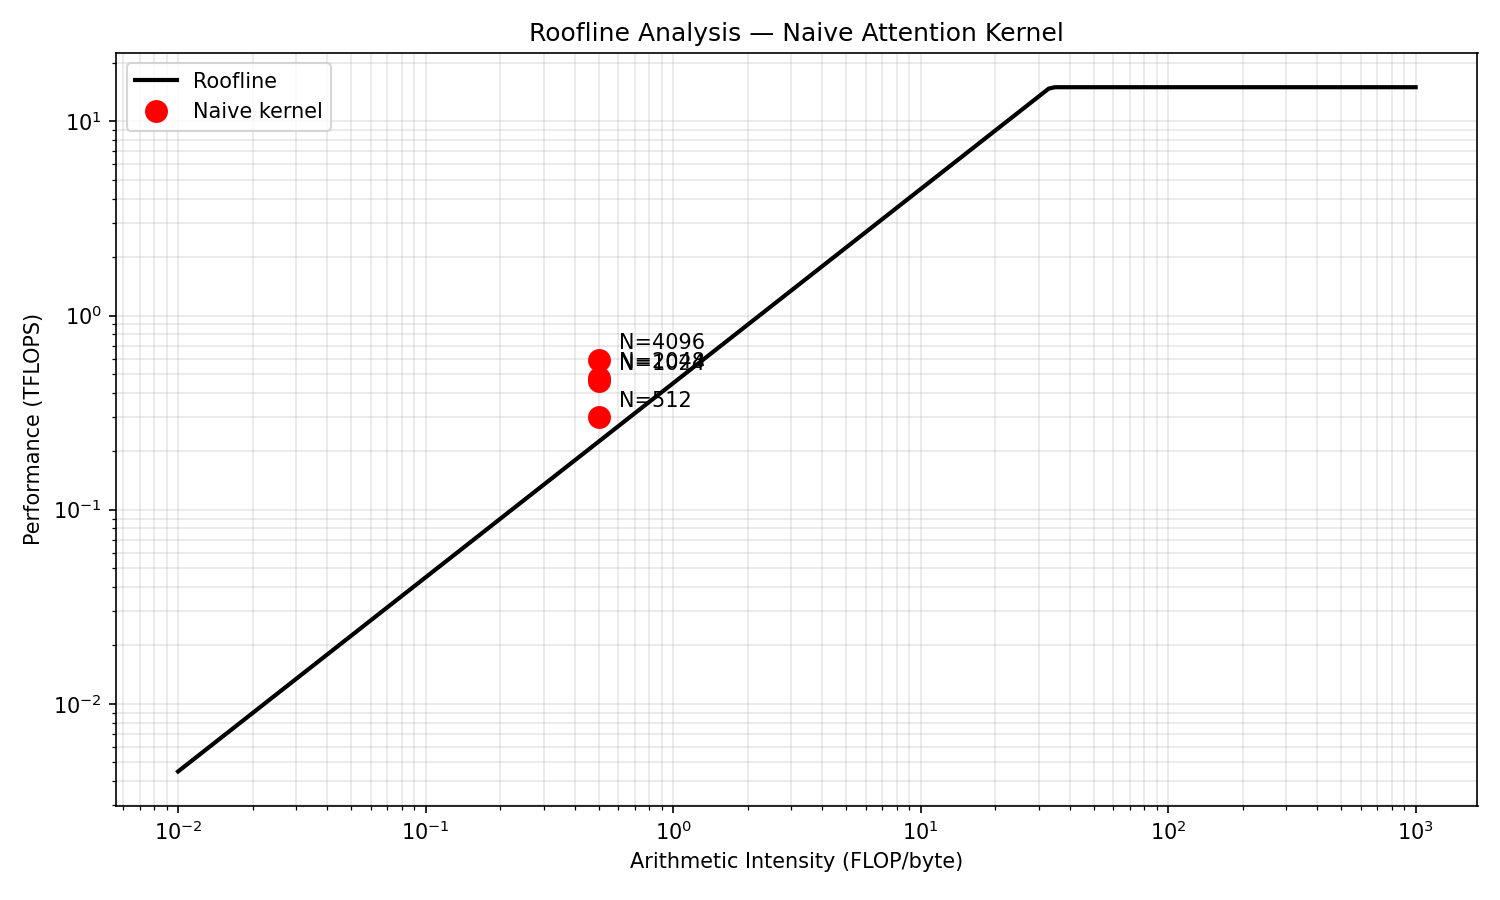
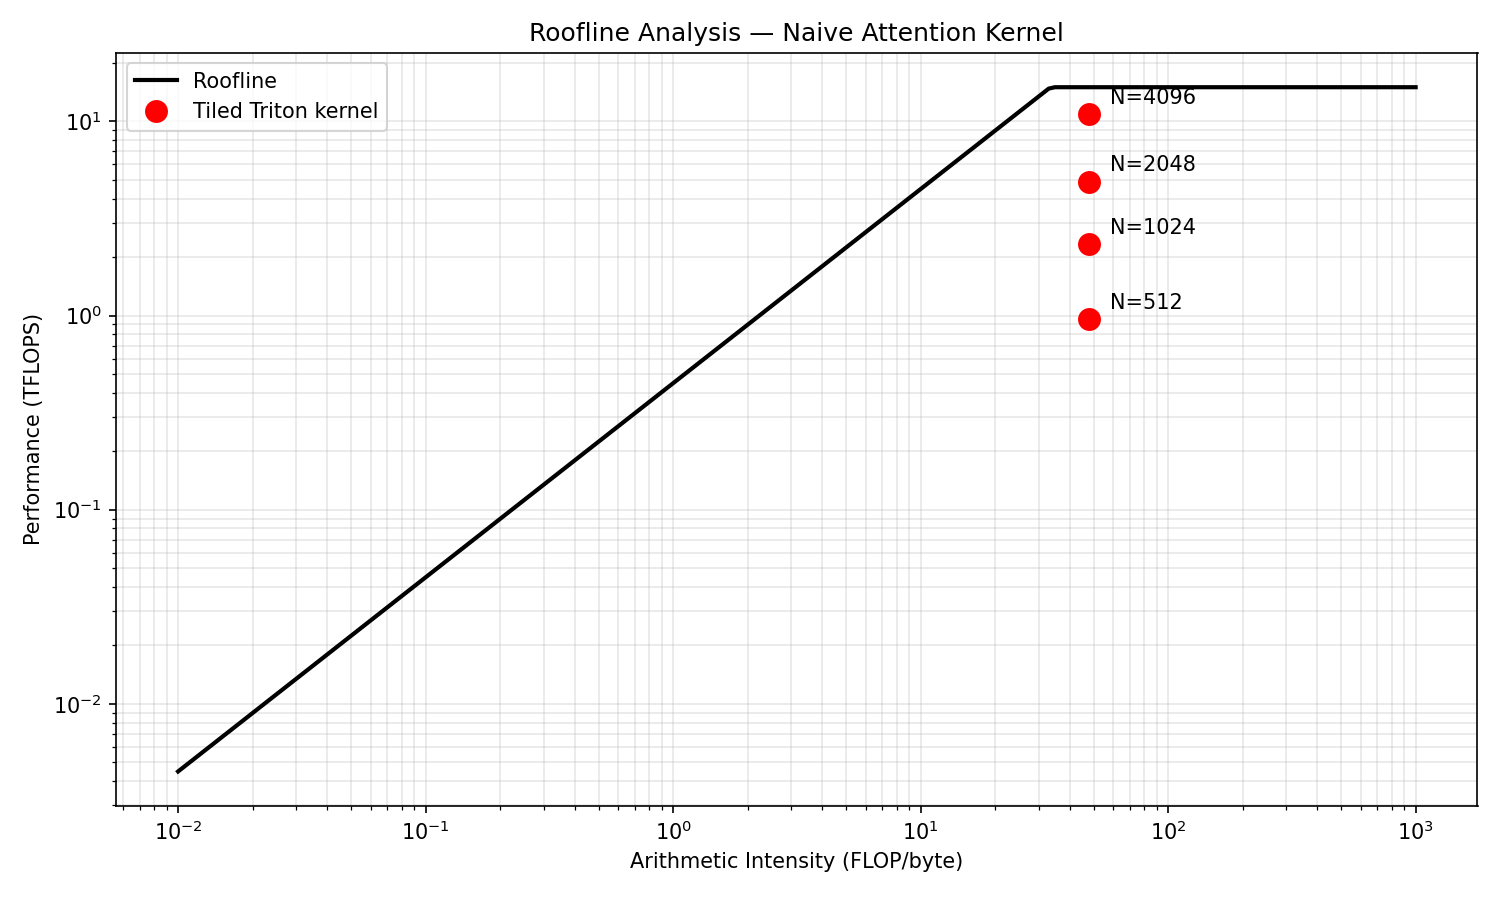
Phase 4: add tiled and joint roofline benchmarks

diff --git a/src/benchmark_joint.py b/src/benchmark_joint.py
@@ -1,0 +1,143 @@
+"""
+Joint roofline benchmark: naive vs tiled Triton attention kernels.
+
+Plots both kernels on the same roofline so the optimization win is visible:
+naive sits in the memory-bound region (AI ~0.5) while tiled jumps to the
+compute-bound region (AI ~48 for BLOCK_M=64).
+"""
+import numpy as np
+import torch
+import matplotlib.pyplot as plt
+
+from triton_native import naive_attention
+from triton_tiled import tiled_attention
+
+# ======= Hardware specs (RTX 5060 Laptop) =======
+PEAK_BW_GB_S = 448
+PEAK_TFLOPS_FP32 = 15
+
+# ======= Test parameters =======
+SEQ_LENS = [512, 1024, 2048, 4096]
+D_K = 64
+BLOCK_M_TILED = 64
+WARMUP = 10
+ITERS = 100
+
+
+# ---------- Theoretical models ----------
+def compute_flops(N, d_k):
+    # Same for both kernels: 6 * N^2 * d_k
+    return 6 * N * N * d_k
+
+
+def compute_bytes_naive(N, d_k):
+    # Naive: 12 * N^2 * d_k  (K loaded twice + V loaded once per query row)
+    return 12 * N * N * d_k
+
+
+def compute_bytes_tiled(N, d_k, BLOCK_M):
+    # Tiled: 8 * N^2 * d_k / BLOCK_M  (K + V loaded once per program; N/BLOCK_M programs)
+    return 8 * N * N * d_k / BLOCK_M
+
+
+# ---------- Benchmark helper ----------
+def benchmark(kernel_fn, N, d_k, label):
+    Q = torch.randn(N, d_k, device='cuda', dtype=torch.float32)
+    K = torch.randn(N, d_k, device='cuda', dtype=torch.float32)
+    V = torch.randn(N, d_k, device='cuda', dtype=torch.float32)
+
+    for _ in range(WARMUP):
+        kernel_fn(Q, K, V)
+
+    times = []
+    for _ in range(ITERS):
+        start = torch.cuda.Event(enable_timing=True)
+        end = torch.cuda.Event(enable_timing=True)
+        start.record()
+        kernel_fn(Q, K, V)
+        end.record()
+        end.synchronize()
+        times.append(start.elapsed_time(end))
+
+    median_ms = sorted(times)[ITERS // 2]
+    return median_ms
+
+
+# ---------- Run both kernels ----------
+naive_results = []
+tiled_results = []
+
+print(f"{'N':>6} | {'kernel':>6} | {'ms':>9} | {'TFLOPS':>7} | {'GB/s':>7} | {'AI':>6}")
+print("-" * 60)
+
+for N in SEQ_LENS:
+    # Naive
+    ms = benchmark(naive_attention, N, D_K, 'naive')
+    s = ms / 1000.0
+    flops = compute_flops(N, D_K)
+    bytes_ = compute_bytes_naive(N, D_K)
+    naive_results.append({
+        'N': N, 'ms': ms,
+        'tflops': flops / s / 1e12,
+        'bw': bytes_ / s / 1e9,
+        'ai': flops / bytes_,
+    })
+    r = naive_results[-1]
+    print(f"{N:>6} | {'naive':>6} | {ms:>9.3f} | {r['tflops']:>7.3f} | "
+          f"{r['bw']:>7.1f} | {r['ai']:>6.2f}")
+
+    # Tiled
+    ms = benchmark(tiled_attention, N, D_K, 'tiled')
+    s = ms / 1000.0
+    bytes_ = compute_bytes_tiled(N, D_K, BLOCK_M_TILED)
+    tiled_results.append({
+        'N': N, 'ms': ms,
+        'tflops': flops / s / 1e12,
+        'bw': bytes_ / s / 1e9,
+        'ai': flops / bytes_,
+    })
+    r = tiled_results[-1]
+    print(f"{N:>6} | {'tiled':>6} | {ms:>9.3f} | {r['tflops']:>7.3f} | "
+          f"{r['bw']:>7.1f} | {r['ai']:>6.2f}")
+
+# ---------- Joint roofline plot ----------
+fig, ax = plt.subplots(figsize=(11, 6.5))
+
+ai_range = np.logspace(-2, 3, 200)
+mem_ceiling = PEAK_BW_GB_S * ai_range / 1e3
+compute_ceiling = np.full_like(ai_range, PEAK_TFLOPS_FP32)
+roofline = np.minimum(mem_ceiling, compute_ceiling)
+
+ax.loglog(ai_range, roofline, 'k-', linewidth=2, label='Roofline (RTX 5060 Laptop)')
+
+# Ridge point
+ridge = PEAK_TFLOPS_FP32 * 1e3 / PEAK_BW_GB_S
+ax.axvline(ridge, color='gray', linestyle='--', alpha=0.5,
+           label=f'Ridge point ≈ {ridge:.1f} FLOP/byte')
+
+# Naive points
+ais = [r['ai'] for r in naive_results]
+tflops = [r['tflops'] for r in naive_results]
+ax.loglog(ais, tflops, 'ro', markersize=10, label='Naive Triton kernel')
+for r in naive_results:
+    ax.annotate(f"N={r['N']}", (r['ai'], r['tflops']),
+                textcoords="offset points", xytext=(8, -12), fontsize=9, color='red')
+
+# Tiled points
+ais = [r['ai'] for r in tiled_results]
+tflops = [r['tflops'] for r in tiled_results]
+ax.loglog(ais, tflops, 'b^', markersize=10, label=f'Tiled Triton kernel (BLOCK_M={BLOCK_M_TILED})')
+for r in tiled_results:
+    ax.annotate(f"N={r['N']}", (r['ai'], r['tflops']),
+                textcoords="offset points", xytext=(8, 5), fontsize=9, color='blue')
+
+ax.set_xlabel('Arithmetic Intensity (FLOP/byte)')
+ax.set_ylabel('Performance (TFLOPS)')
+ax.set_title('Roofline: Naive vs Tiled FlashAttention (Triton, RTX 5060 Laptop)')
+ax.legend(loc='lower right')
+ax.grid(True, which='both', alpha=0.3)
+plt.tight_layout()
+
+out_path = '../roofline_comparison.png'
+plt.savefig(out_path, dpi=150)
+print(f"\nSaved {out_path}")

diff --git a/src/benchmark_tiled.py b/src/benchmark_tiled.py
@@ -1,0 +1,121 @@
+import torch
+import matplotlib.pyplot as plt
+from triton_tiled import tiled_attention
+
+# ======= Hardware specs (RTX 5060 Laptop) =======
+PEAK_BW_GB_S = 448        # GB/s memory bandwidth
+PEAK_TFLOPS_FP32 = 15     # TFLOPS FP32
+
+# ======= Test parameters =======
+SEQ_LENS = [512, 1024, 2048, 4096]
+D_K = 64
+WARMUP = 10
+ITERS = 100
+
+# ======= FILL IN: Theoretical model =======
+def compute_flops(N, d_k):
+    """Total FLOPs for the full kernel (all N query rows)."""
+    # BLANK 1: You derived FLOPs per query row = 6 * N * d_k
+    # There are N query rows, so total = ???
+    return 6*N*d_k*N
+
+def compute_bytes(N, d_k, BLOCK_M):
+    """Total bytes moved from global memory (all N query rows)."""
+    # BLANK 2: You derived bytes per query row = 12 * N * d_k
+    # Total = ???
+    return (8*(N**2)*d_k) / BLOCK_M
+
+# ======= Benchmark loop =======
+results = []
+
+for N in SEQ_LENS:
+    Q = torch.randn(N, D_K, device='cuda', dtype=torch.float32)
+    K = torch.randn(N, D_K, device='cuda', dtype=torch.float32)
+    V = torch.randn(N, D_K, device='cuda', dtype=torch.float32)
+
+    # Warmup
+    for _ in range(WARMUP):
+        tiled_attention(Q, K, V)
+
+    # FILL IN: Timed iterations using CUDA events
+    times = []
+    for _ in range(ITERS):
+        # BLANK 3: Create start and end events
+        start = torch.cuda.Event(enable_timing=True)
+        end = torch.cuda.Event(enable_timing=True)
+
+        # BLANK 4: Record start, run kernel, record end, synchronize
+        start.record()
+        tiled_attention(Q, K, V)
+        end.record()
+        
+        end.synchronize() #CPU blocks until GPU hits 'end'
+        # BLANK 5: Get elapsed time (events give milliseconds)
+        elapsed_ms = start.elapsed_time(end)
+        times.append(elapsed_ms)
+
+    median_ms = sorted(times)[ITERS // 2]
+    median_s = median_ms / 1000.0
+
+    BLOCK_M = 64  # Must match the BLOCK_M used in tiled_attention_kernel
+
+    flops = compute_flops(N, D_K)
+    total_bytes = compute_bytes(N, D_K, BLOCK_M)
+
+    achieved_tflops = flops / median_s / 1e12
+    achieved_bw = total_bytes / median_s / 1e9  # GB/s
+    arith_intensity = flops / total_bytes        # FLOP/byte
+
+    results.append({
+        'N': N,
+        'median_ms': median_ms,
+        'achieved_tflops': achieved_tflops,
+        'achieved_bw': achieved_bw,
+        'arith_intensity': arith_intensity,
+    })
+
+    print(f"N={N:5d} | {median_ms:8.3f} ms | {achieved_tflops:.4f} TFLOPS | "
+          f"{achieved_bw:.1f} GB/s | AI={arith_intensity:.2f} FLOP/byte")
+
+# ======= FILL IN: Roofline Plot =======
+fig, ax = plt.subplots(figsize=(10, 6))
+
+# BLANK 6: Create the roofline ceiling lines
+# X-axis range for arithmetic intensity
+import numpy as np
+ai_range = np.logspace(-2, 3, 200)
+
+# Memory ceiling: performance = bandwidth * arithmetic_intensity
+# (convert GB/s to TFLOPS: 448 GB/s = 0.448 TB/s)
+mem_ceiling = PEAK_BW_GB_S * ai_range / 1e3  # array: PEAK_BW * ai_range, in TFLOPS
+
+# Compute ceiling: flat line at peak TFLOPS
+compute_ceiling = np.full_like(ai_range, PEAK_TFLOPS_FP32)  # array: constant PEAK_TFLOPS for all ai_range
+
+# The roofline is the MIN of the two ceilings
+roofline = np.minimum(mem_ceiling, compute_ceiling)
+
+ax.loglog(ai_range, roofline, 'k-', linewidth=2, label='Roofline')
+
+# BLANK 7: Plot your measured points
+ais = [r['arith_intensity'] for r in results]
+tflops = [r['achieved_tflops'] for r in results]
+bw = [r['achieved_bw'] for r in results]
+print(f"Achieved bandwidths (GB/s): {bw}")
+
+ax.loglog(ais, tflops, 'ro', markersize=10, label='Tiled Triton kernel')
+
+# Labels for each point
+for r in results:
+    ax.annotate(f"N={r['N']}", (r['arith_intensity'], r['achieved_tflops']),
+                textcoords="offset points", xytext=(10, 5))
+
+ax.set_xlabel('Arithmetic Intensity (FLOP/byte)')
+ax.set_ylabel('Performance (TFLOPS)')
+ax.set_title('Roofline Analysis — Naive Attention Kernel')
+ax.legend()
+ax.grid(True, which='both', alpha=0.3)
+plt.tight_layout()
+plt.savefig('../roofline_naive.png', dpi=150)
+print("\nSaved roofline_naive.png")
+plt.show()